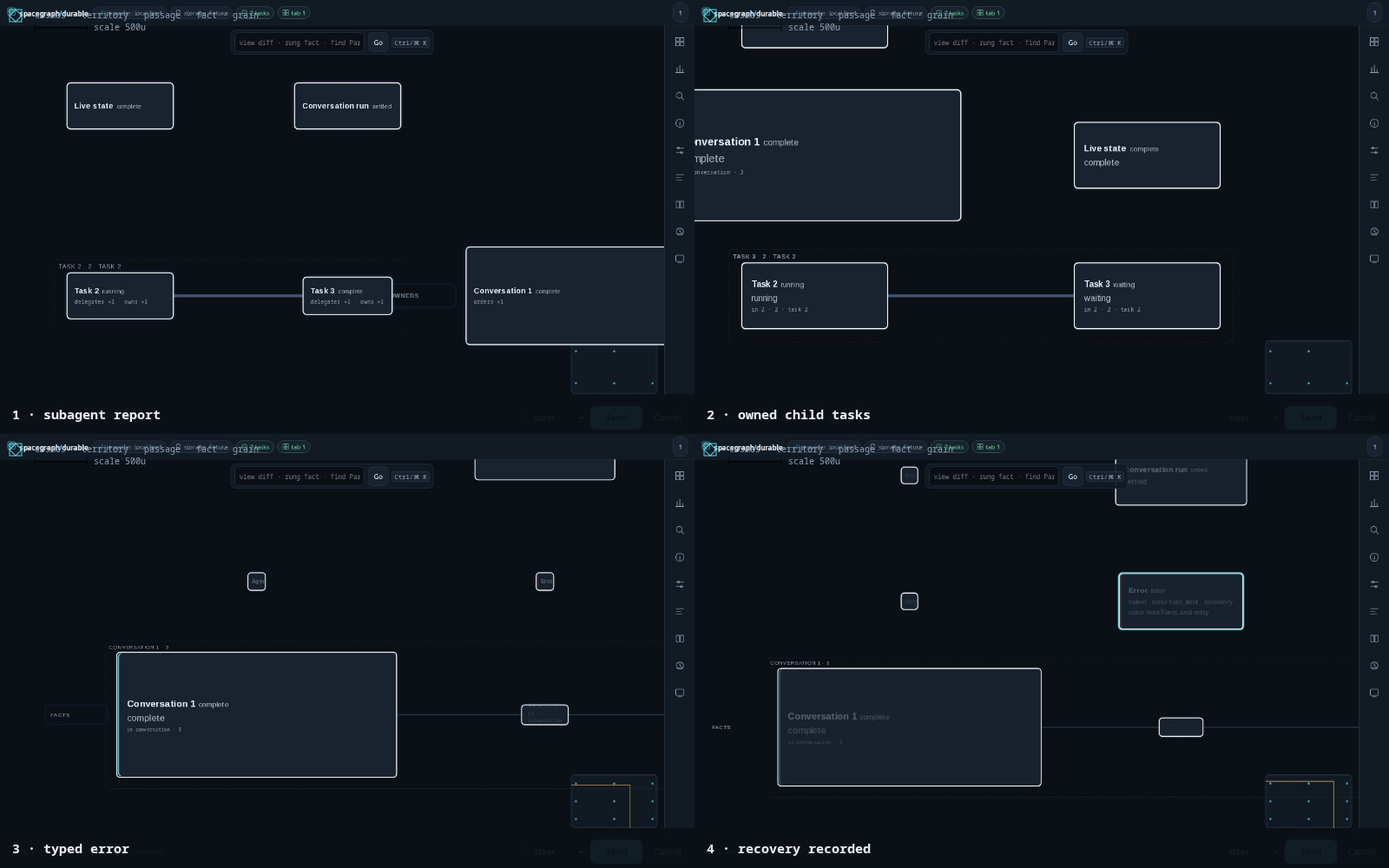
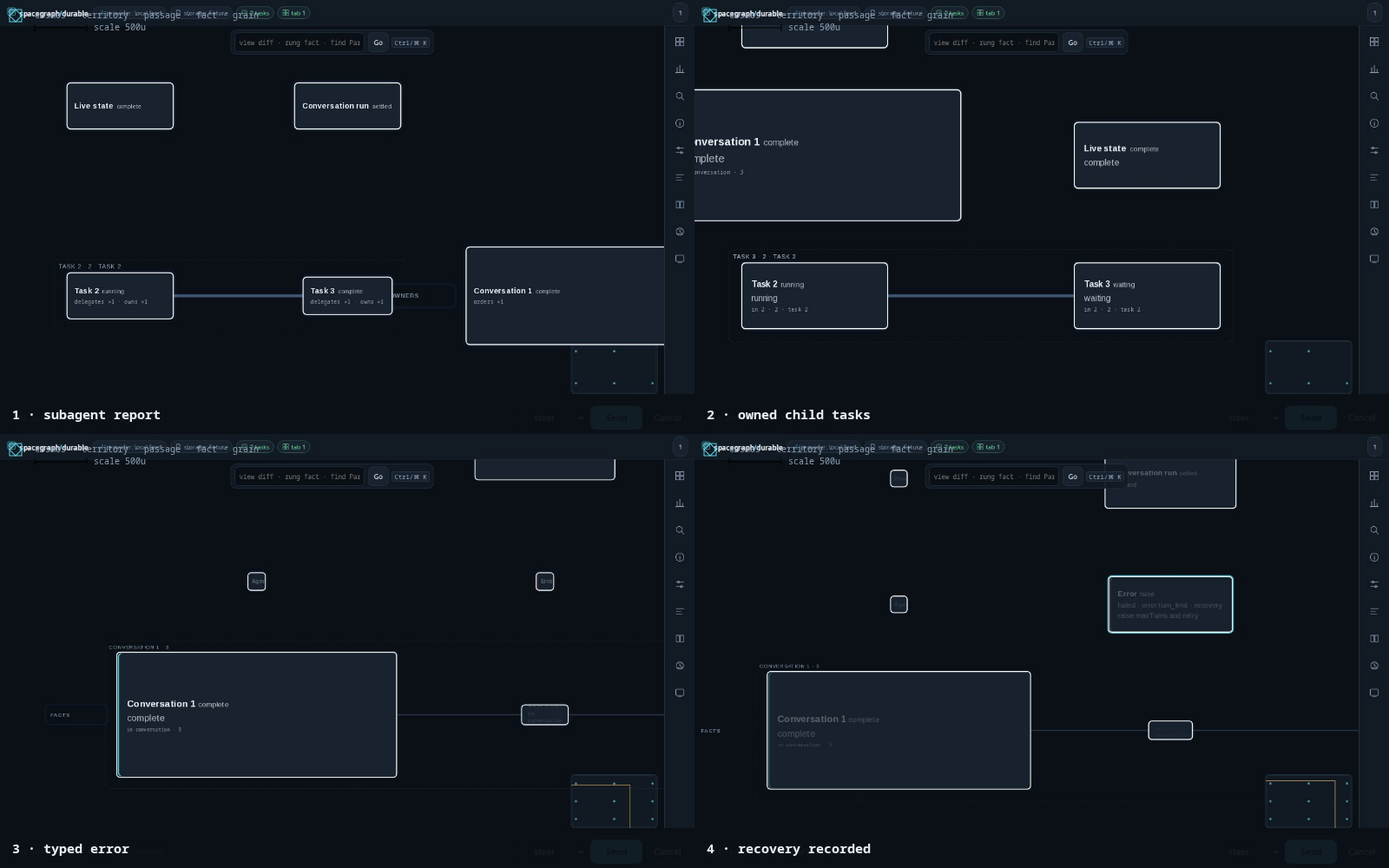
feat(pi-durable): close out TODO14 usability gaps
Finish W1 dot-band summaries and focus, wire guided routes and compare pin into the drawer, fix the muted-edge metric, and record the final ladder and recapture in TODO14.

diff --git a/app/pi-durable/index.html b/app/pi-durable/index.html
@@ -147,6 +147,18 @@
             .durable-card.band-monument { padding: 20px 24px; font-size: 24px; box-shadow: inset 4px 0 var(--accent); }
             .durable-card.band-dot .card-summary,
             .durable-card.band-chip .card-summary { display: none; }
+            .durable-card.band-dot:is(:hover, :focus-visible),
+            .durable-card.band-chip:is(:hover, :focus-visible) { overflow: visible; z-index: 6; }
+            .durable-card.band-dot:is(:hover, :focus-visible)::before,
+            .durable-card.band-chip:is(:hover, :focus-visible)::before {
+                content: attr(title); position: absolute; top: 100%; left: 0; z-index: 7;
+                width: max-content; max-width: 260px; box-sizing: border-box; padding: 6px 8px;
+                background: var(--panel); border: 1px solid var(--line); border-radius: 6px;
+                color: var(--text); font-size: 11px; line-height: 1.4; white-space: normal;
+                box-shadow: 0 6px 18px #0008; pointer-events: none;
+            }
+            [dir="rtl"] .durable-card.band-dot:is(:hover, :focus-visible)::before,
+            [dir="rtl"] .durable-card.band-chip:is(:hover, :focus-visible)::before { left: auto; right: 0; }
             .durable-card[data-status="sleeping"] .card-label::after { content: "◷"; margin-left: 6px; color: var(--warn); }
             .durable-card[data-status="failed"] { border-left: 3px solid var(--error); }
             .durable-card[data-kind="boundary"] { border-left: 3px solid var(--accent); }
@@ -223,8 +235,8 @@
                 border-radius: 999px; background: var(--panel-2); color: var(--muted); font-size: 11px; }
             .filter-chip[aria-pressed="true"] { color: var(--accent); border-color: var(--accent); }
             #callouts button { display: block; width: 100%; text-align: left; margin-bottom: 4px; }
-            #route-caption, #thread-status, #commit-ticker, #filter-count { font-size: 11px; color: var(--muted); }
-            #route-prev, #route-next, #thread-follow, #thread-next { min-height: 32px; margin: 4px 4px 0 0; }
+            #route-caption, #compare-status, #thread-status, #commit-ticker, #filter-count { font-size: 11px; color: var(--muted); }
+            #route-prev, #route-next, #compare-pin, #compare-clear, #thread-follow, #thread-next { min-height: 32px; margin: 4px 4px 0 0; }
             @media (prefers-reduced-motion: reduce) { .durable-card[data-pulse="true"]::after { animation: none; opacity: 0; } }
             #announcer { position: absolute; width: 1px; height: 1px; overflow: hidden; clip-path: inset(50%); }
             #help { position: absolute; inset: 0; display: grid; place-items: center; background: #050a0ecc;
@@ -251,6 +263,11 @@
                 footer { flex-wrap: wrap; }
                 #prompt-input { flex: 1 1 100%; }
                 #prompt-mode, #prompt-submit { flex: 1; }
+            }
+            @media (max-width: 600px) {
+                .rail-icon, #drawer-close, .action, #view-switch button, #rung-switch button,
+                #trail button, .filter-chip, #route-prev, #route-next, #compare-pin, #compare-clear,
+                #thread-follow, #thread-next, .tab, #lens-go, #lens-input, #menu-button { min-height: 44px; }
             }
             @media (prefers-reduced-motion: reduce) {
                 * { transition: none !important; animation: none !important; }
@@ -386,6 +403,12 @@
                             <div id="route-caption"></div>
                             <button type="button" class="action" id="route-prev">Prev</button>
                             <button type="button" class="action" id="route-next">Next</button>
+                        </div>
+                        <div class="insight-block">
+                            <h3>Compare</h3>
+                            <div id="compare-status">No reference pinned</div>
+                            <button type="button" class="action" id="compare-pin">Pin reference</button>
+                            <button type="button" class="action" id="compare-clear">Clear pin</button>
                         </div>
                         <div class="insight-block">
                             <h3>Curiosity</h3>

diff --git a/app/pi-durable/src/host.ts b/app/pi-durable/src/host.ts
@@ -281,7 +281,7 @@ const cardTemplate = (node: DurableNode): string => {
     const attention = typeof node.data?.['attention'] === 'number' ? node.data['attention'].toFixed(2) : '0.50';
     const workshop = typeof node.data?.['workshop'] === 'string' ? node.data['workshop'] : '';
     const name = `${labelForNode(node)}${summary ? ` — ${summary}` : ''}`;
-    return `<div class="durable-card ${node.importance} band-${node.band}" data-kind="${escapeHTML(node.kind)}" data-status="${escapeHTML(node.status)}" data-importance="${node.importance}" data-attention="${attention}" data-octave="${node.octave.toFixed(2)}" data-band="${node.band}"${node.data?.['muted'] ? ' data-muted="true"' : ''}${node.data?.['pulse'] ? ' data-pulse="true"' : ''} aria-label="${escapeHTML(name)}" title="${escapeHTML(name)}"${workshop ? ` data-workshop="${escapeHTML(workshop)}"` : ''}${diff ? ` data-diff="${diff}"` : ''}>${workshop ? `<span class="card-workshop">${escapeHTML(workshop)}</span>` : ''}<span class="card-label">${escapeHTML(labelForNode(node))}${status}</span>${summary ? `<span class="card-summary">${escapeHTML(summary)}</span>` : ''}${detail ? `<span class="card-detail">${escapeHTML(detail)}</span>` : ''}${image}</div>`;
+    return `<div class="durable-card ${node.importance} band-${node.band}" tabindex="0" data-kind="${escapeHTML(node.kind)}" data-status="${escapeHTML(node.status)}" data-importance="${node.importance}" data-attention="${attention}" data-octave="${node.octave.toFixed(2)}" data-band="${node.band}"${node.data?.['muted'] ? ' data-muted="true"' : ''}${node.data?.['pulse'] ? ' data-pulse="true"' : ''} aria-label="${escapeHTML(name)}" title="${escapeHTML(name)}"${workshop ? ` data-workshop="${escapeHTML(workshop)}"` : ''}${diff ? ` data-diff="${diff}"` : ''}>${workshop ? `<span class="card-workshop">[${escapeHTML(workshop)}]</span>` : ''}<span class="card-label">${escapeHTML(labelForNode(node))}${status}</span>${summary ? `<span class="card-summary">${escapeHTML(summary)}</span>` : ''}${detail ? `<span class="card-detail">${escapeHTML(detail)}</span>` : ''}${image}</div>`;
 };
 
 /** One committed kernel, different captions per landmark: zoom changes detail, never facts. */
@@ -918,7 +918,10 @@ export class DurableHost {
     }
 
     pinCompare(id?: string): boolean {
-        const target = id ?? this.registry.list().find((tab) => tab.id !== this.registry.activeID())?.id;
+        const tabs = this.registry.list();
+        const target = id
+            ? this.registry.get(id)?.id ?? tabs.find((tab) => tabKernel(tab).nodes.some((node) => node.id === id))?.id
+            : tabs.find((tab) => tab.id !== this.registry.activeID())?.id;
         if (!target) return false;
         this.#pinnedID = target;
         this.#comparePrior ??= this.#viewName;
@@ -987,6 +990,7 @@ export class DurableHost {
     private renderInsights(): void {
         this.renderTime();
         this.renderRoute();
+        this.renderCompare();
         this.renderThread();
         if (el('app').dataset['drawerOpen'] !== 'insights') return;
         this.renderDigest();
@@ -999,6 +1003,12 @@ export class DurableHost {
     private renderRoute(): void {
         const caption = this.#chapter >= 0 ? chapterCaptions(this.#story?.id)[this.#chapter] : undefined;
         el('route-caption').textContent = caption ?? '';
+    }
+
+    private renderCompare(): void {
+        el('compare-status').textContent = this.#pinnedID
+            ? `Reference: ${this.#pinnedID}`
+            : 'No reference pinned';
     }
 
     private renderThread(): void {
@@ -1116,7 +1126,7 @@ export class DurableHost {
         const edges = emphasised.edges.map((edge: RenderEdge) => rung.mutedEdge(edge.kind)
             ? { ...edge, emphasis: 0, data: { ...edge.data, muted: true, opacity: 0.2 } }
             : edge);
-        this.#mutedEdges = edges.length - emphasised.edges.length;
+        this.#mutedEdges = edges.filter((edge: RenderEdge) => edge.data?.['muted'] === true).length;
         return { ...emphasised, edges };
     }
 

diff --git a/app/pi-durable/src/client.ts b/app/pi-durable/src/client.ts
@@ -10,6 +10,7 @@ import { replayFeed } from './replay';
 import { provenanceFor } from './provenance';
 import { isRung } from './rungs';
 import { SCENARIOS } from './scenarios';
+import { STORIES } from './stories';
 import { asOfFeed } from './time-travel';
 import { forkOps } from './translator';
 
@@ -17,6 +18,8 @@ const params = new URLSearchParams(location.search);
 const compact = decodeAddress(params.get('at'));
 const shot = params.get('shot') ?? compact?.shot;
 const scenario = params.get('scenario') ?? undefined;
+const story = params.get('story')
+    ?? STORIES.find((entry) => entry.frames.some((frame) => 'shot' in frame && frame.shot === shot))?.id;
 const seed = params.get('seed') ?? 'fixed';
 const replayID = params.get('replay') ?? undefined;
 const asOf = params.get('asOf') === null ? compact?.asOf : Number(params.get('asOf'));
@@ -441,6 +444,22 @@ const bindPanelChrome = (): void => {
     el('present-exit').addEventListener('click', () => togglePresentation(false));
 };
 
+const raisedDots = new Set<string>();
+const bindCardFocus = (): void => {
+    el('canvas').addEventListener('focusin', (event) => {
+        const card = (event.target as HTMLElement).closest<HTMLElement>('.durable-card');
+        const band = card?.dataset['band'];
+        const id = card?.closest<HTMLElement>('[data-node-id]')?.dataset['nodeId'];
+        if (!id || !card || (band !== 'dot' && band !== 'chip') || raisedDots.has(id)) return;
+        raisedDots.add(id);
+        host.focus(id);
+        queueMicrotask(() => {
+            el('canvas').querySelector<HTMLElement>(`[data-node-id="${CSS.escape(id)}"] .durable-card`)?.focus();
+            raisedDots.delete(id);
+        });
+    });
+};
+
 const bindChrome = (): void => {
     host.onAbort = cancelPrompt;
     host.onFork = forkConversation;
@@ -451,6 +470,7 @@ const bindChrome = (): void => {
     bindApprove();
     bindCatalog();
     bindPanelChrome();
+    bindCardFocus();
     el('export-format').addEventListener('change', (event) =>
         host.export((event.target as HTMLSelectElement).value),
     );
@@ -465,6 +485,8 @@ const bindChrome = (): void => {
     el('time-present').addEventListener('click', () => host.scrubTo(undefined));
     el('route-prev').addEventListener('click', () => host.routeStep(-1));
     el('route-next').addEventListener('click', () => host.routeStep(1));
+    el('compare-pin').addEventListener('click', () => host.pinCompare());
+    el('compare-clear').addEventListener('click', () => host.clearCompare());
     el('filter-reset').addEventListener('click', () => host.resetFilters());
     el('inspector').addEventListener('click', (event) => {
         if ((event.target as HTMLElement).id === 'fork-here') void forkConversation();
@@ -537,6 +559,7 @@ const boot = async (): Promise<void> => {
     await host.mount(el('canvas'));
     bindChrome();
     await connect();
+    if (story) host.setStory(story);
     if (['s', 'view', 'rung', 'layout', 'asOf', 'zoom'].some((key) => params.has(key)))
         host.applyPermalink(location.href);
     if (compact) host.applyAddress(compact);

diff --git a/app/pi-durable/tests/engagement.spec.ts b/app/pi-durable/tests/engagement.spec.ts
@@ -57,7 +57,6 @@ test('E1 — focus lens mutes without changing the fold and restores attention',
 
 test('E2 — guided route exposes each committed caption in the drawer and inspector', async ({ page }) => {
     const errors = await boot(page, '?shot=basic-turn');
-    await call(page, 'setStory', 'turn-flow');
     await openPanel(page, 'insights');
     await page.locator('#route-next').click();
     await expect(page.locator('#route-caption')).toContainText('prompt committed');
@@ -127,7 +126,7 @@ test('ZUI — rung emphasis and band folding mute without changing the fold', as
     await call(page, 'setRung', 'cosmos');
     const cosmos = await call<Emphasis>(page, 'emphasis');
     expect(cosmos.mutedNodes).toBeGreaterThan(0);
-    expect(cosmos.mutedEdges).toBeGreaterThanOrEqual(0);
+    expect(cosmos.mutedEdges).toBeGreaterThan(0);
     expect(cosmos.activeGroups.length).toBeLessThanOrEqual(fact.activeGroups.length);
     const after = await call<Representation>(page, 'representation');
     expect(after.nodeIDs).toEqual(before.nodeIDs);
@@ -138,15 +137,22 @@ test('ZUI — rung emphasis and band folding mute without changing the fold', as
     expect(errors).toEqual([]);
 });
 
-test('C1 — compare pin diffs a chosen tab and clears to the prior view', async ({ page }) => {
+test('C1 — the drawer pins a reference, diffs committed ids and clears the view', async ({ page }) => {
     const errors = await boot(page, '?shot=fork-tabs');
     await openPanel(page, 'insights');
     const before = await call<string>(page, 'viewName');
-    expect(await call<boolean>(page, 'pinCompare')).toBe(true);
+    await page.locator('#compare-pin').click();
     expect(await call<string | null>(page, 'pinned')).not.toBeNull();
     expect(await call<string>(page, 'viewName')).toBe('diff');
-    expect(await call<boolean>(page, 'clearCompare')).toBe(true);
+    await expect(page.locator('#compare-status')).toContainText('Reference:');
+    expect(await page.locator('#canvas [data-diff]').count()).toBeGreaterThan(0);
+    await page.locator('#compare-clear').click();
     expect(await call<string | null>(page, 'pinned')).toBeNull();
     expect(await call<string>(page, 'viewName')).toBe(before);
+
+    const nodeID = (await call<Representation>(page, 'representation')).nodeIDs[0]!;
+    expect(await call<boolean>(page, 'pinCompare', nodeID)).toBe(true);
+    expect(await call<string | null>(page, 'pinned')).not.toBeNull();
+    await page.locator('#compare-clear').click();
     expect(errors).toEqual([]);
 });

diff --git a/app/pi-durable/tests/a11y.spec.ts b/app/pi-durable/tests/a11y.spec.ts
@@ -101,6 +101,37 @@ test('presentation mode hides chrome, keeps the view and exits by keyboard', asy
     expect(await call<string>(page, 'permalink')).toBe(before);
 });
 
+test('dot-band cards expose the committed summary and raise on keyboard focus', async ({ page }) => {
+    await page.setViewportSize({ width: 1600, height: 1000 });
+    const errors = await boot(page, '?shot=basic-turn&rung=grain');
+    const dots = page.locator('#canvas .durable-card.band-dot');
+    expect(await dots.count()).toBeGreaterThan(0);
+    const dot = dots.first();
+    const title = await dot.getAttribute('title');
+    expect(title).toBeTruthy();
+    await dot.hover();
+    const tooltip = await dot.evaluate((node) => getComputedStyle(node, '::before').content);
+    expect(tooltip).toContain(title!.slice(0, 12));
+    const id = await dot.evaluate((node) => (node.closest('[data-node-id]') as HTMLElement).dataset['nodeId']!);
+    await dot.focus();
+    await expect(page.locator(`[data-node-id="${id}"] .durable-card`)).toHaveAttribute('data-band', 'card');
+    await expect(page.locator('#inspector')).toContainText(title!.split(' — ').at(-1)!.slice(0, 12));
+    expect(errors).toEqual([]);
+});
+
+test('narrow viewport keeps controls at touch-target size', async ({ page }) => {
+    const errors = await boot(page, '?shot=basic-turn');
+    await page.setViewportSize({ width: 375, height: 812 });
+    await openPanel(page);
+    for (const selector of ['#drawer-close', '#view-switch button', '#rung-switch button',
+        '#trail button', '.action', '.filter-chip', '#route-prev', '#compare-pin',
+        '#thread-follow', '#menu-button', '#lens-input']) {
+        const control = page.locator(selector).first();
+        if (await control.count()) await expect(control).toHaveCSS('min-height', '44px');
+    }
+    expect(errors).toEqual([]);
+});
+
 test('narrow viewport keeps controls and graph reachable', async ({ page }) => {
     await page.setViewportSize({ width: 375, height: 812 });
     const errors = await boot(page, '?shot=basic-turn');

diff --git a/TODO14.md b/TODO14.md
@@ -1,6 +1,6 @@
 # TODO14 — Octave atlas: hierarchy, wayfinding and depth
 
-> **Status: all three phases and the ZUI follow-ups landed (2026-11-24); remaining measurement work is in §15.** TODO13 landed the durable atlas: continuous attention, one Lens,
+> **Status: all three phases and the ZUI follow-ups landed; close-out completed (2026-11-24).** The close-out finished W1 dot-band usability, wired the guided route and compare pin into the drawer, fixed the muted-edge metric, and reconciled two overstated claims; only measurement and density tuning remain (§15). TODO13 landed the durable atlas: continuous attention, one Lens,
 > a landmark trail and compact address, scrubbable story plates, two workshops, and budget/spatial
 > grace. Phase 1 fixed the fundamentals — octave sizing, focused address and provenance, and a
 > minimal icon rail. Phase 2 added depth inside that one drawer: full-text filtered Lens, a time
@@ -226,15 +226,15 @@ own server there. Run each gate once per change set; recapture once with
 
 | Stream | Phase | State | Evidence |
 | ------ | ----- | ----- | -------- |
-| O — octave sizing | 1 | Landed, with two caveats below | Node boxes now also honour the core `nodesAreaDensity` hint (below); measured coverage rose from 0.38% of the stage to 8.5% with all ten basic-turn nodes visible. | `src/octaves.ts` and `src/edge-style.ts` are the two new authorities. `src/host.ts` replaces `IMPORTANCE_SIZE`/`sizeOf`; one `sizeForOctave` call feeds CSS width/height, adapter `nodeSizeFn`, `RenderNode` footprint and `ScopeSpec.nodes[].size`; the octave bucket is in `#scopeKey`. `representation()` reports per-node octaves and band counts. Cards carry `data-octave`, `data-band`, `aria-label` and `title`. Five CSS bands and recorded-kind edge styles are live. `tests/octaves.test.ts` (6 tests) and `tests/octaves.spec.ts` (4 tests, two viewports) pass. Every `renderer.fit()` now passes `minScale: 1`, so a fit never shrinks a world unit below one CSS pixel; unreadable content is panned instead of shrunk. This fixes the tiny-node screenshot without a second contract. |
-| W — wayfinding fundamentals | 1 | Landed W0 + W3; W1/W2 partial; organization added (§14.9) | `Address.focus` round-trips through `permalink()`, `compactAddress()`, `applyPermalink()` and `applyAddress()`; Lens gained `focus <id>` and `why`; `reveal()`/`focus()` refresh so a focused dot reaches at least the card band. `src/provenance.ts` derives commit sequence, source entry, order neighbours, facet and edge kinds; the inspector renders a "why is this here?" section. `tests/provenance.test.ts` (2), `tests/provenance.spec.ts` (2), extended `address.test.ts` and `lens.test.ts` pass. Recorded edges now also form subgraph frames and rung-scoped card captions (§14.9); `tests/detail.spec.ts` gained a gate. Remaining live treatments are listed in §14. |
+| O — octave sizing | 1 | Landed, with two caveats below | Node boxes now also honour the core `nodesAreaDensity` hint (below); measured coverage rose from 0.38% of the stage to 8.5% with all ten basic-turn nodes visible. | `src/octaves.ts` and `src/edge-style.ts` are the two new authorities. `src/host.ts` replaces `IMPORTANCE_SIZE`/`sizeOf`; one `sizeForOctave` call feeds CSS width/height, adapter `nodeSizeFn`, `RenderNode` footprint and `ScopeSpec.nodes[].size`; the octave bucket is in `#scopeKey`. `representation()` reports per-node octaves and band counts. Cards carry `data-octave`, `data-band`, `aria-label` and `title`. Five CSS bands and recorded-kind edge styles are live. `tests/octaves.test.ts` (6 tests) and `tests/octaves.spec.ts` (4 tests, two viewports) pass. Every `renderer.fit()` now passes a `minScale: 0.85` floor, so a fit never shrinks a world unit far below one CSS pixel; unreadable content is panned instead of shrunk. The earlier `1` figure was a documentation error, corrected at close-out. This fixes the tiny-node screenshot without a second contract. |
+| W — wayfinding fundamentals | 1 | Landed W0–W3; node-only treatments (§14.4) | `Address.focus` round-trips through `permalink()`, `compactAddress()`, `applyPermalink()` and `applyAddress()`; Lens gained `focus <id>` and `why`; `reveal()`/`focus()` refresh so a focused dot reaches at least the card band. `src/provenance.ts` derives commit sequence, source entry, order neighbours, facet and edge kinds; the inspector renders a "why is this here?" section. `tests/provenance.test.ts` (2), `tests/provenance.spec.ts` (2), extended `address.test.ts` and `lens.test.ts` pass. Recorded edges now also form subgraph frames and rung-scoped card captions (§14.9); `tests/detail.spec.ts` gained a gate. The close-out made dot and chip cards focusable, reveals their committed summary as a tooltip from the existing `title`, raises them to the card band on keyboard focus without changing position, and restores focus after re-render; 44px targets hold at 375px. `tests/a11y.spec.ts` gained two gates. Live treatments are listed in §14. |
 | H — HUD minimisation | 1 | Landed H0–H6 | `index.html` now has a 56px icon rail with eight inline-SVG controls, a collapsible `#drawer` holding Views, Landmarks, Inspector, Controls, Legend and Glossary, icon+count header badges, and a Lens command bar over the canvas with the `Ctrl/⌘ K` hint. `src/client.ts` binds rail icons, focus restore, Esc priority, `Shift+F` presentation mode, `f` focus selection and `0` reset; `src/host.ts` sets the view/rung badges and adds `resetView`. Header/footer/rail hide in presentation mode and the canvas keeps the full grid. At 900px the rail slides out from the header menu. No control, accessible name or text equivalent was dropped. `tests/a11y.spec.ts` gained icon-name/tabbability, rail-width, presentation and narrow-drawer gates; `tests/boot.ts` gained `openPanel`; `first-run.spec.ts` and `stories.spec.ts` use the new paths. |
 | I — information add-ons | 2 | Landed I0–I3 | `src/digest.ts` and `src/instruments.ts` are the new pure authorities. `parseLens` reads `status:`/`kind:` filters and `find` matches committed text via `rankedSearch` in stable id order. The Insights drawer holds a `?asOf` scrubber with one tick per committed entry, a `diffKernels` digest and an instrument panel gated by `?instruments=1`. `tests/digest.test.ts` (3), `tests/instruments.test.ts` (2), extended `tests/lens.test.ts` and `tests/insights.spec.ts` (2) pass. |
 | C0/C3 — ergonomics, part one | 2 | Landed | `DurableHost` keeps an explicit `Address` stack with back/forward on `Alt+←`/`Alt+→`, separate from browser history and never touching committed data. `src/client.ts` derives every `?` overlay row from one `KEY_BINDINGS` table; Lens keeps query history (`↑`/`↓`) and completes prefixes on `Tab`. `tests/history.spec.ts` and the extended `tests/a11y.spec.ts` pass. |
-| E — engagement add-ons | 3 | Landed E0–E5 | `src/thread.ts` walks only recorded `orders`/`checkpoint` edges; `src/focus.ts` drops octaves and mutes non-neighbours without changing ids; chapter frames drive next/prev route captions; a commit ticker and CSS ripple carry activity with a reduced-motion cut; `src/callouts.ts` counts only committed facts; `createRenderClock` staggers eased morphs per band. `tests/engagement.test.ts` (4) and `tests/engagement.spec.ts` (7) pass. |
-| C1/C2 — ergonomics, part two | 3 | Landed | `src/filters.ts` chips dim non-matches with counts and one reset key (`m`); the diff view pins a chosen tab through `diffKernels` and clears to the prior view. Representation reports identical node and edge ids with filters on and off. Covered in `tests/engagement.test.ts` and `tests/engagement.spec.ts`. |
-| Z — ZUI follow-ups | 4 | Landed | `src/scopes.ts` derives a nested scope forest from recorded groups; `#layout` feeds it to `ScopeSimulation` and calls `setPolicy({band, focus})`, so deeper frames fold into the active ancestor without moving a node. `rungEmphasis` consumes the per-rung `kinds`/`edges` sets for node and edge muting with identical ids. Subgraph captions and territory detail count committed tasks and forks. `density()` and `tests/octaves.spec.ts` gate measured node-area coverage. `tests/scopes.test.ts` (2) and `tests/rungs.test.ts` (2) pass. |
-| G — evidence | all | Complete | Full ladder green on this change set: `typecheck`, `test` (92 passed), `verify`, `test:e2e` (56 gates), `verify:visual` (5/5), `build`, `bun run check`. Phase 3 recaptured eleven PNGs with `PI_DURABLE_FAUX_SEED=fixed`, keeping every `.prev` pair and the contact sheet. Strobe `rec_0d8091` recorded 20.13% main-busy, 9.86 ms paint and 3 long tasks with unrelated dev processes active; the `rec_d96ac7` re-run measured 10.93% main-busy, 6.63 ms paint and 2 long tasks with other workloads still at ~95% CPU. Frame and GPU metrics were refused headlessly. No verdict was written. |
+| E — engagement add-ons | 3 | Landed E0–E5 | `src/thread.ts` walks only recorded `orders`/`checkpoint` edges; `src/focus.ts` drops octaves and mutes non-neighbours without changing ids; chapter frames drive next/prev route captions; a commit ticker and CSS ripple carry activity with a reduced-motion cut; `src/callouts.ts` counts only committed facts; `createRenderClock` staggers eased morphs per band. `tests/engagement.test.ts` (4) and `tests/engagement.spec.ts` (7) pass. The close-out selects a story from `?story=` or the first story containing `?shot`, so the drawer route buttons work in the running UI without a host hook. |
+| C1/C2 — ergonomics, part two | 3 | Landed | `src/filters.ts` chips dim non-matches with counts and one reset key (`m`); the diff view pins a chosen tab through `diffKernels` and clears to the prior view. Representation reports identical node and edge ids with filters on and off. The close-out bound Pin reference / Clear pin in the drawer; a pin accepts a tab id or a node id resolved to its tab, and the E2E gate asserts `data-diff` ids from the two kernels and restoration of the prior view. |
+| Z — ZUI follow-ups | 4 | Landed | `src/scopes.ts` derives a nested scope forest from recorded groups; `#layout` feeds it to `ScopeSimulation` and calls `setPolicy({band, focus})`, so deeper frames fold into the active ancestor without moving a node. `rungEmphasis` consumes the per-rung `kinds`/`edges` sets for node and edge muting with identical ids. Subgraph captions and territory detail count committed tasks and forks. `density()` and `tests/octaves.spec.ts` gate measured node-area coverage. The close-out fixed `mutedEdges`, which had always reported zero, and strengthened the ZUI gate to `> 0`. `tests/scopes.test.ts` (2) and `tests/rungs.test.ts` (2) pass. |
+| G — evidence | all | Complete | Full ladder green on this change set: `typecheck`, `test` (94 passed), `verify`, `test:e2e` (65 gates), `verify:visual` (5/5), `build`, `bun run check`. Phase 3 recaptured eleven PNGs with `PI_DURABLE_FAUX_SEED=fixed`, keeping every `.prev` pair and the contact sheet. Strobe `rec_0d8091` recorded 20.13% main-busy, 9.86 ms paint and 3 long tasks with unrelated dev processes active; the `rec_d96ac7` re-run measured 10.93% main-busy, 6.63 ms paint and 2 long tasks with other workloads still at ~95% CPU. Frame and GPU metrics were refused headlessly. No verdict was written. |
 
 ### Verification evidence for phase 1 (this change set)
 
@@ -284,14 +284,25 @@ own server there. Run each gate once per change set; recapture once with
 - `bun run check` — root lint and types clean.
 - Iteration fixed three causes: a parent cycle when two recorded groups had identical member sets, missing `counts` on the band frame passed to the caption template, and a trailing separator for empty counts. No test was retried to green without a change.
 
+### Verification evidence for the close-out (this change set)
+
+- `pnpm --filter pi-durable typecheck` — clean after typing the `mutedEdges` filter callback.
+- `pnpm --filter pi-durable test` — 19 files, 94 tests passed.
+- `pnpm --filter pi-durable verify` — guard passed; no new dependency.
+- `SG_DURABLE_PORT=5401 PI_DURABLE_SERVER_PORT=8901 pnpm --filter pi-durable test:e2e` — 65/65 passed, including the two new a11y gates, the hook-free route gate, the drawer-driven compare gate and the strengthened muted-edge gate.
+- `SG_DURABLE_PORT=5402 PI_DURABLE_SERVER_PORT=8902 pnpm --filter pi-durable verify:visual` — 5/5 passed.
+- `pnpm --filter pi-durable build` and root `bun run check` — clean.
+- `PI_DURABLE_FAUX_SEED=fixed pnpm --filter pi-durable shots:all` — four heroes and seven plates recaptured with `.prev` pairs; one story compose hit `Target crashed` under a loaded machine, so `inspect-flow` was recaptured alone with `--workers=1` and the contact sheet was rebuilt. No verdict was written.
+- Iteration fixed two causes: the inspector writes label and summary as separate text, and `#menu-button` was absent from the narrow-target CSS. The first two failures were assertion/environment defects, not product defects; both were corrected before the green run.
+
 ## 14. Remaining work and decisions
 
 1. ~~**Finish phase 1 (H).**~~ Landed. The rail is a 56px icon strip, all six sections live in one collapsible drawer, header badges are icon+count chips, and the Lens is a canvas command bar. `openPanel()` in `tests/boot.ts` opens the drawer through its accessible rail icon; only `a11y.spec.ts`, `first-run.spec.ts` and `stories.spec.ts` needed migration because the other specs assert DOM attributes/text, which work on hidden subtrees. No control or text equivalent was dropped.
 2. ~~**Edge colour caveat (O4).**~~ Decided in phase 3: accept theme-owned edge colour permanently. `edgeStyleForKind` keeps its semantic `tone`, but no edge-tone channel was added to the cross-package renderer contract and no edge kind is invented.
 3. **Size-count caveat (O3), revised.** Screen-space card widths used to collapse under `renderer.fit()` zoom, which made the atlas read as tiny dots. Every fit now passes a `minScale` floor, and the core `nodesAreaDensity` hint (§14.8) scales the octave ladder uniformly so node boxes cover a target share of the stage. `solveErgonomicLayout` then supplies compact positions, which `ScopeSimulation` owns through `setLayoutTargets`. Measured node-area coverage on `basic-turn` at 1600×1000 rose from 0.38% (5 of 10 nodes visible) to 8.5% (10 of 10 visible). The E2E gate still asserts ≥4 distinct `data-octave` values and ≥3 bands because the ladder itself stays exact in `tests/octaves.test.ts`.
-4. ~~**Wayfinding treatments (W1/W2).**~~ Decided in phase 3: keep node-only treatments. The clock glyph, failure rule, boundary survey rule, deferred fold and nested-workshop brackets stay CSS-only on cards; no edge `data-*` channel was added to the renderer contract.
+4. ~~**Wayfinding treatments (W1/W2).**~~ Landed at close-out with node-only treatments: the clock glyph, failure rule, boundary survey rule, deferred fold and nested-workshop brackets (brackets are now literal text in the workshop caption); no edge `data-*` channel was added to the renderer contract. Dot and chip cards reveal the summary and raise on keyboard focus (W1). Edge captions stay static per recorded kind; attention-gated captions and a double-stroke fork were not added because the contract exposes only solid/dashed/dotted styles. This is an accepted simplification, not a hidden filter.
 5. ~~**Focus band from canvas clicks.**~~ Landed in phase 3: `renderer.on('nodeClick')` now calls `focus()`, so a click grows the focus band without moving the node; `nodeDoubleClick` toggles the focus lens.
-6. **Formal recapture and measure (G).** ~~Recapture pending.~~ `shots:all` ran with `PI_DURABLE_FAUX_SEED=fixed` after the phase-1 gate went green: eleven tracked PNGs, each with a `.prev` pair, and a refreshed contact sheet. No verdict has been written. G2 ran at the end of phase 3 (`rec_0d8091`) and was re-run as `rec_d96ac7`, with headless frame/GPU refusals stated rather than hidden; a genuinely idle machine remains unavailable (§15).
+6. **Formal recapture and measure (G).** ~~Recapture pending.~~ `shots:all` ran with `PI_DURABLE_FAUX_SEED=fixed` after the phase-1 gate went green and again at close-out after the card caption changed: eleven tracked PNGs, each with a `.prev` pair, and a refreshed contact sheet. No verdict has been written. G2 ran at the end of phase 3 (`rec_0d8091`) and was re-run as `rec_d96ac7`, with headless frame/GPU refusals stated rather than hidden; a genuinely idle machine remains unavailable (§15).
 7. ~~**Phase 2.**~~ Landed I0–I3 and C0/C3 behind the phase-1 gate; the H0 drawer hosts time, digest and instruments. ~~**Phase 3.**~~ Landed E0–E5 and C1/C2 behind the phase-2 gate; no renderer contract, second camera or hidden filter was added. Every row in §6–§9 is now implemented; §15 records the delivered order and the open tuning items.
 8. **Node-area density (core ability, landed; tuning open).** `src/layout/node-area-density.ts` exposes `solveNodeAreaDensity`, which iteratively approximates a `nodesAreaDensity` target with one uniform scale; `ErgonomicsOptions` accepts the same hint. pi-durable feeds it from `NODES_AREA_DENSITY = 0.32` with `maxScale: 8`, then uses `solveErgonomicLayout` positions as scope targets and grows CSS/renderer/layout sizes together. HTML cards now fill their renderer boxes (`#canvas .spacegraph-html-node` is a flex column), which was the other half of the tiny-node problem. Achieved coverage is 8.5%, not the 32% hint: collision slack, the 3-column cap and the `minScale` floor keep the graph legible instead of tiling it. Raising the hint further crowds `900×700`; treat 8–12% as the working band and revisit only with a density measurement in the gate.
 9. ~~**Subgraphs and ZUI detail.**~~ Landed with the deeper work. A rung is a zoom landmark, not a hyperedge; groups are graph facts. `#groupFrom(kernel)` derives subgraphs only from recorded edges and emits them as `shape:'group'` frames; cards add a `detail` caption chosen by the current rung. The follow-up pass added the rest: `src/scopes.ts` nests recorded groups into a scope forest whose portals live in their parent, `#layout` calls `setPolicy({band, focus})` so deeper frames fold into the active ancestor, `rungEmphasis` uses the per-rung `kinds`/`edges` sets to mute non-landmark nodes and edges without changing ids, and group frames plus territory detail count committed tasks and forks. The ZUI changes representation, never the kernel, and every coordinate still comes from one layout authority.
@@ -308,11 +319,13 @@ Phase 3 landed in the order below, with one verification gate at the end. No ren
 6. **E5/G2 delivered.** `createRenderClock` staggers eased band changes, the camera stays per tab, and Strobe `rec_0d8091` is recorded with headless frame/GPU refusals stated above.
 7. **G0/G1 delivered.** The full ladder ran once, eleven PNGs were recaptured with `.prev` pairs and a refreshed contact sheet, and no verdict was written.
 8. **ZUI follow-ups delivered.** Nested scopes fold through `setPolicy({band})`; per-rung emphasis mutes without hiding; group counts are committed facts; a density measurement guards the working band. Captions changed, so eleven PNGs were recaptured with `.prev` pairs; no renderer contract was added and no verdict was written.
+9. **Close-out delivered.** W1 dot-band focus and summaries are live; `?story=` or the shot selects the guided route, and the drawer pins or clears a tab/node reference; `mutedEdges` counts real muted edges. The full ladder ran once and eleven PNGs were recaptured again after the caption change; no renderer contract, second camera, model or hidden filter was added.
 
 Open follow-ups (not blocking this plan):
 
 - A clean idle-machine Strobe run is still unavailable: `rec_0d8091` (20.13% main-busy) and `rec_d96ac7` (10.93%) were both taken with other workloads at high CPU. Pause those workloads and record once more only if a trustworthy cost figure is needed; this plan does not add another run.
-- Tune `NODES_AREA_DENSITY` (item 8) only if the new E2E density gate moves outside 7–13% measured coverage; the working band stays 8–12%.
+- Tune `NODES_AREA_DENSITY` (item 8) only if the new E2E density gate moves outside 7–13% measured coverage; the working band stays 8–12%. The close-out run stayed inside that band, so no tuning was applied.
+- Coverage not landed by design: edge captions are static per recorded kind and fork edges use a solid stroke because the renderer contract has no double-line style or per-caption attention channel; instrument histograms report band counts. None of these changes the fold or invents a kind.
 
 Keep TODO13 as the record of the landed atlas; record new work here only.
 

diff --git a/app/pi-durable/README.md b/app/pi-durable/README.md
@@ -80,7 +80,8 @@ Four Core heroes are tracked at full resolution: `basic-turn`, `sleeping-approva
 `task-wake`, `fork-journey`, `resume-journey`, `inspect-flow`, `host-boundary` and `child-flow`. Each story captures
 four states from pure `?shot`/`?scenario` state through `window.__durable` hooks, then composes them
 in a browser canvas. Each cell is an engraved plate: a survey mark, landmark legend and scale bar
-alongside its numbered caption. The same frames are scrubbable through `setStory` / `chapters` /
+alongside its numbered caption. The active story follows `?story=<id>` or the first story containing `?shot`, and its frames are
+scrubbable through `setStory` / `chapters` /
 `scrub`; the PNG is the printed plate and the hooks are the film. Views `diff`, `trace`, `docs` and
 `transcript` re-place the same folded kernel and are represented inside those stories, not as new
 renderer contracts. `pnpm --filter pi-durable shots:all` captures heroes and stories; the contact
@@ -203,7 +204,10 @@ discrete view history, `Ctrl/⌘ K` opens the Lens, `?` lists every binding, and
 and restores focus to its icon. Lens keeps query history (`↑`/`↓`) and completes command prefixes on `Tab`.
 The insights panel also drives guided routes, curiosity callouts, kind/status muting chips, the commit
 ticker and thread following; `e` toggles a focus lens on the selection and `m` resets muting filters.
-Muting dims facts without removing nodes, edges or documents, and `Esc` restores a thread or focus lens.
+Its Compare block pins a tab or selected node as reference and clears back to the prior view. Dot and
+chip cards reveal their full committed summary on hover, and keyboard focus raises them to the card
+band and writes the summary into the inspector without changing the fold. Muting dims facts without
+removing nodes, edges or documents, and `Esc` restores a thread or focus lens.
 
 Icons are decorative inline SVG `<symbol>` definitions in `index.html` — survey mark, views grid,
 landmark rungs, lens, inspector, controls sliders, legend rules, glossary book, insights dial, tasks
